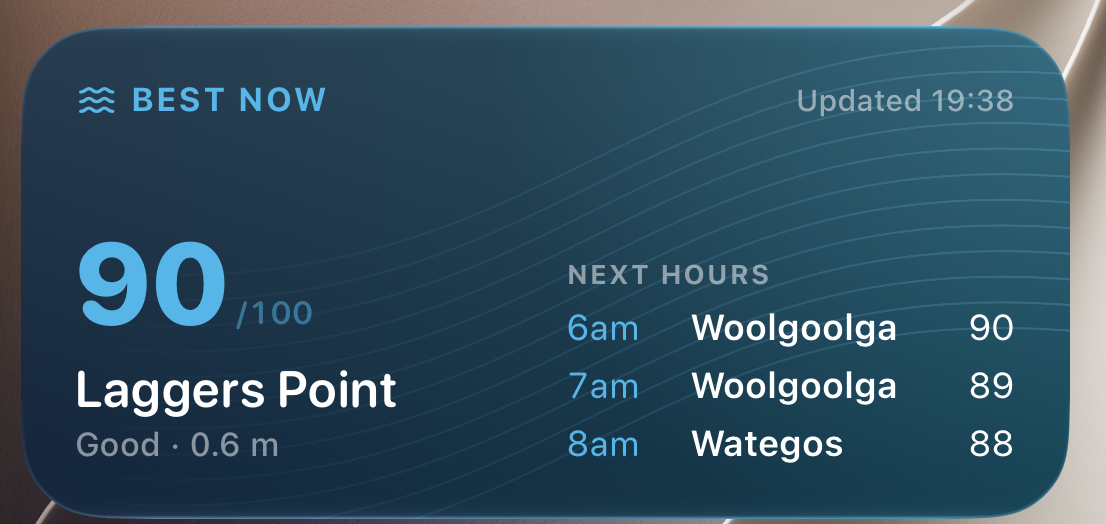
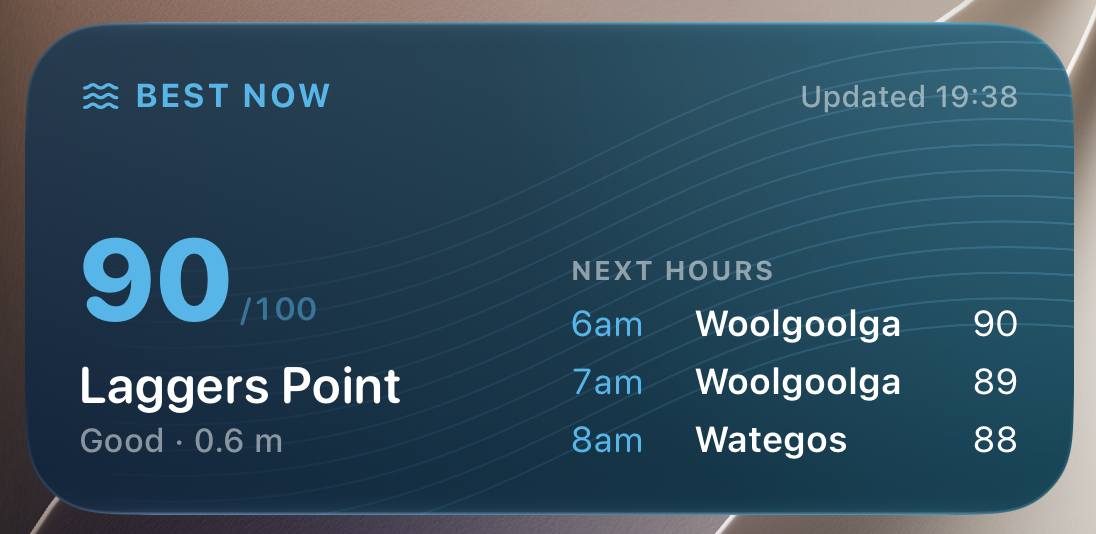
Glance card: crop the widget with an even margin and show it uncropped

diff --git a/assets/css/main.css b/assets/css/main.css
@@ -94,7 +94,7 @@ nav a{display:inline-flex;align-items:center;min-height:44px;color:inherit;text-
 .shot-card h3{margin-bottom:.35rem}
 .shot-card p:last-of-type{margin-bottom:.6rem}
 .card-wide.shot-card{flex-direction:row;align-items:center}
-.card-wide.shot-card .snip{flex:0 0 50%;border-bottom:0;border-right:1px solid var(--line)}
+.card-wide.shot-card .snip{flex:0 0 50%;aspect-ratio:auto;border-bottom:0;border-right:1px solid var(--line)}
 .card-wide.shot-card .shot-text{padding:24px 36px}
 .more{font-weight:700;font-size:var(--fs-sm);text-decoration:none}.more:hover{text-decoration:underline}
 .row{display:grid;grid-template-columns:.8fr 1.2fr;gap:64px;align-items:center}
@@ -230,7 +230,7 @@ nav a{display:inline-flex;align-items:center;min-height:44px;color:inherit;text-
   .section{padding-block:64px}
   .cards,.watch-steps,.metrics,.map-pair{grid-template-columns:1fr}
   .card-wide.shot-card{flex-direction:column}
-  .card-wide.shot-card .snip{flex:none;width:100%;border-right:0;border-bottom:1px solid var(--line)}
+  .card-wide.shot-card .snip{flex:none;width:100%;aspect-ratio:auto;border-right:0;border-bottom:1px solid var(--line)}
   .watch-steps .device{width:min(60%,220px)}
   .stage{aspect-ratio:.95}
   .stage-front{bottom:0;width:44%}.stage-watch{bottom:-10px;width:34%}
